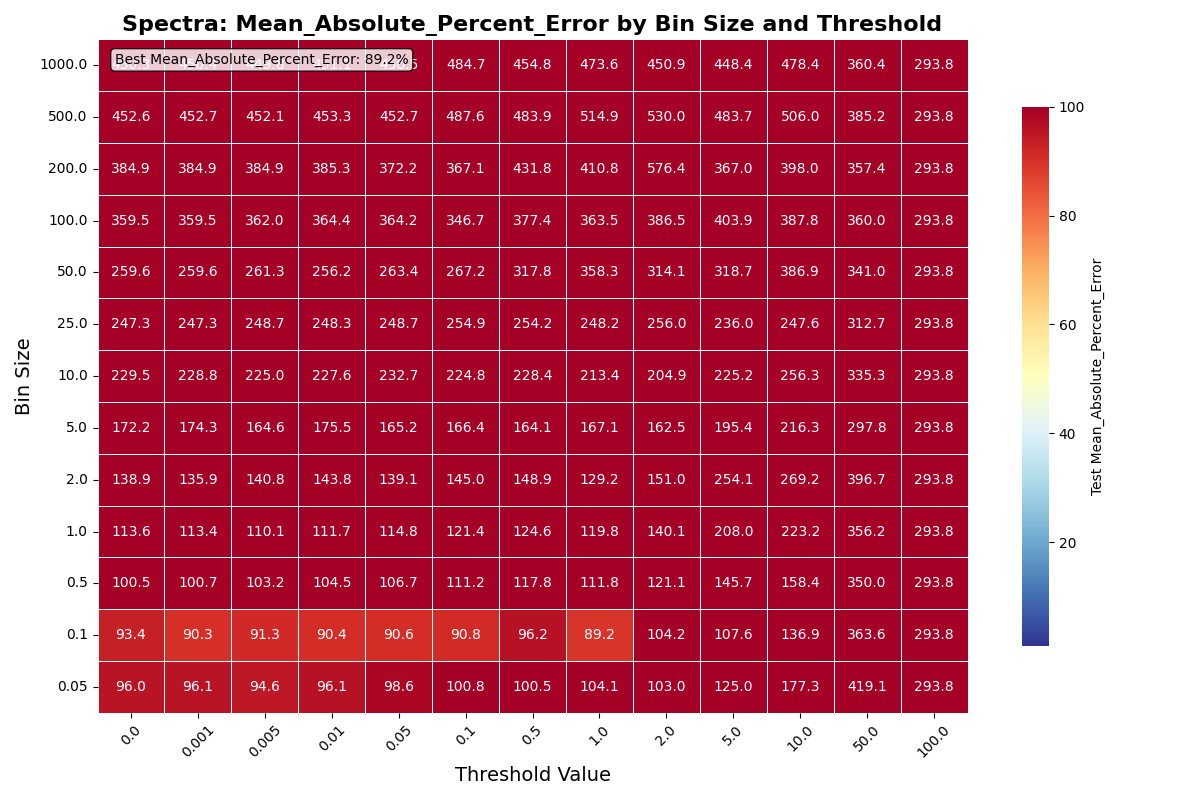
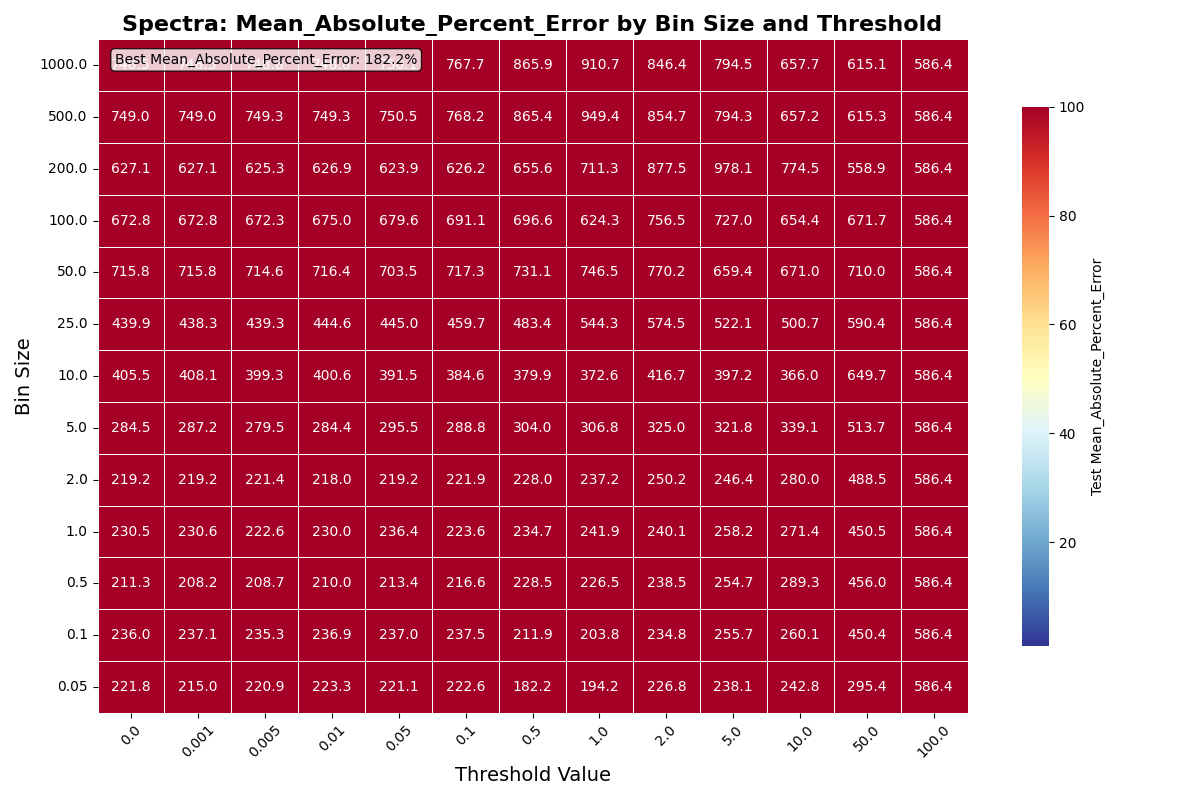
Updates with new dataset and functional standardization

diff --git a/Notebooks/function_depot.py b/Notebooks/function_depot.py
@@ -19,12 +19,12 @@ import poetry
 ### ==== ENCODERS ====
 #%%
 # Encoder architecture (With Validation Set)
-batch_size = 64
-epochs=500
-lr=0.0001
-criterion=nn.MSELoss()
-output_size = 512
-num_layers = 8
+# batch_size = 64
+# epochs=500
+# lr=0.0001
+# criterion=nn.MSELoss()
+# output_size = 512
+# num_layers = 8
 
 class Encoder(nn.Module):
     def __init__(self, input_size, output_size, num_layers):
@@ -79,12 +79,12 @@ def train_model_encoder(model, train_data, val_data, epochs, learning_rate, crit
 
 #%%
 # Spectra Toxicity MLP
-batch_size = 128
-epochs=1000
-lr=0.0001
-criterion=nn.MSELoss()
-output_size = 1
-num_layers = 10
+# batch_size = 128
+# epochs=1000
+# lr=0.0001
+# criterion=nn.MSELoss()
+# output_size = 1
+# num_layers = 10
 
 # Everything below this line SHOULD be able to run without modification
 class SpecToxMLP_Reg(nn.Module):
@@ -140,12 +140,12 @@ def train_model_MLP_spectra(model, train_data, val_data, epochs, learning_rate, 
 
 #%%
 # ChemNet MLP
-batch_size = 128
-epochs=100
-lr=0.0001
-criterion=nn.MSELoss()
-output_size = 1
-num_layers = 5
+# batch_size = 128
+# epochs=100
+# lr=0.0001
+# criterion=nn.MSELoss()
+# output_size = 1
+# num_layers = 5
 
 # Everything below this line SHOULD be able to run without modification
 class ToxMLP(nn.Module):
@@ -201,13 +201,13 @@ def train_model_MLP(model, train_data, val_data, epochs, learning_rate, criterio
 
 #%%
 # Conditional encoder 
-batch_size = 64
-epochs=500
-lr=0.0001
-criterion1=nn.MSELoss()
-criterion2=nn.MSELoss()
-output_size = 513
-num_layers = 8
+# batch_size = 64
+# epochs=500
+# lr=0.0001
+# criterion1=nn.MSELoss()
+# criterion2=nn.MSELoss()
+# output_size = 513
+# num_layers = 8
 
 # Encoder architecture (With Validation Set)
 class Cond_Encoder(nn.Module):